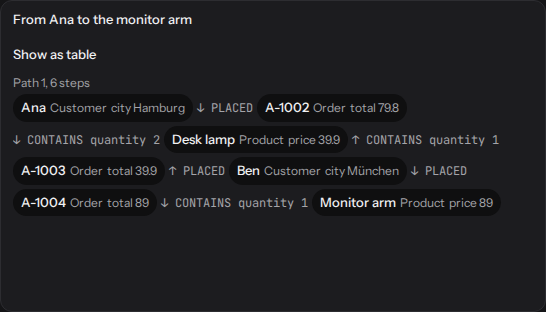
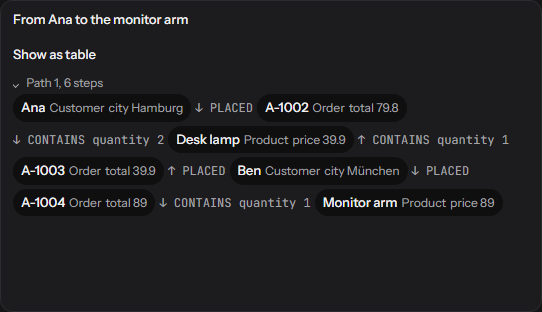
UI fixer cycle 2: toolbar seams, steps row, settings nav and rows, screenshots

diff --git a/ui/src/styles/layoutGuards.test.ts b/ui/src/styles/layoutGuards.test.ts
@@ -16,7 +16,12 @@ function rules(file: string): StyleRule[] {
 
 function value(file: string, selector: string, property: string, context?: RegExp): string[] {
   return rules(file)
-    .filter((rule) => rule.selector === selector)
+    .filter((rule) =>
+      rule.selector
+        .split(/,(?![^()]*\))/)
+        .map((part) => part.trim().replace(/\s+/g, " "))
+        .includes(selector),
+    )
     .filter((rule) => context === undefined || rule.context.some((c) => context.test(c)))
     .flatMap((rule) => rule.declarations)
     .filter((declaration) => declaration.property === property)
@@ -57,7 +62,7 @@ describe("layout guards", () => {
   });
 
   it("lets the step type give up width before its button wraps", () => {
-    expect(value("analysis/analysis.css", ".steps__add > .select", "flex")).toContain("0 1 auto");
+    expect(value("analysis/analysis.css", ".steps__add > .select", "flex")).toContain("1 1 10rem");
     expect(value("analysis/analysis.css", ".steps__add > .button", "flex")).toContain("none");
   });
 
@@ -98,6 +103,20 @@ describe("layout guards", () => {
     expect(
       value("features/plugins/plugins.css", ".plugins-table .plugins-mono", "white-space"),
     ).toContain("nowrap");
+  });
+
+  it("squares the toolbar group's inner corners, so no seam shows between its controls", () => {
+    const css = "features/dashboards/toolbar.css";
+    expect(
+      value(css, ".dash-toolbar :where(.time-controls, .split-control) .button", "border-radius"),
+    ).toContain("0");
+    expect(
+      value(
+        css,
+        ".dash-toolbar :where(.time-controls, .split-control) > :where(:first-child) .button",
+        "border-radius",
+      ),
+    ).toContain("var(--radius-md-inner) 0 0 var(--radius-md-inner)");
   });
 
   it("drops the catalog status separators where the line wraps", () => {

diff --git a/ui/src/features/settings/settings.css b/ui/src/features/settings/settings.css
@@ -197,29 +197,6 @@
     container: settings-main / inline-size;
   }
 
-  /*
-   * A narrow section (a small window, or the sidebar open beside it): every row puts its control
-   * under the text, a switch as well as a field, instead of keeping whatever happens to fit.
-   */
-  @container settings-main (width < 40rem) {
-    .settings-row__text {
-      flex-basis: 100%;
-    }
-
-    .settings-row__control {
-      justify-content: flex-start;
-    }
-
-    /* A field's hint and a value follow the control to the left edge. */
-    .settings-field {
-      justify-items: start;
-    }
-
-    .settings-value {
-      text-align: start;
-    }
-  }
-
   .settings-section {
     display: flex;
     flex-direction: column;
@@ -944,6 +921,29 @@
 
     .settings-preview {
       position: static;
+    }
+  }
+
+  /*
+   * A narrow section (a small window, or the sidebar open beside it): every row puts its control
+   * under the text, a switch as well as a field, instead of keeping whatever happens to fit.
+   */
+  @container settings-main (width < 40rem) {
+    .settings-row__text {
+      flex-basis: 100%;
+    }
+
+    .settings-row__control {
+      justify-content: flex-start;
+    }
+
+    /* A field's hint and a value follow the control to the left edge. */
+    .settings-field {
+      justify-items: start;
+    }
+
+    .settings-value {
+      text-align: start;
     }
   }
 

diff --git a/ui/src/features/dashboards/toolbar.css b/ui/src/features/dashboards/toolbar.css
@@ -147,10 +147,23 @@
     background: var(--border);
   }
 
-  .dash-toolbar .time-controls .button,
-  .dash-toolbar .split-control .button {
-    border-radius: var(--radius-sm);
+  /*
+   * Square where two controls meet, so no corner of the divider color shows at the seams (it read
+   * as notches in dark mode); the outer corners follow the group's frame.
+   */
+  .dash-toolbar :where(.time-controls, .split-control) .button {
+    border-radius: 0;
     background: var(--bg-surface);
+  }
+
+  .dash-toolbar :where(.time-controls, .split-control) > :where(:first-child) .button,
+  .dash-toolbar :where(.time-controls, .split-control) > .button:where(:first-child) {
+    border-radius: var(--radius-md-inner) 0 0 var(--radius-md-inner);
+  }
+
+  .dash-toolbar :where(.time-controls, .split-control) > :where(:last-child) .button,
+  .dash-toolbar :where(.time-controls, .split-control) > .button:where(:last-child) {
+    border-radius: 0 var(--radius-md-inner) var(--radius-md-inner) 0;
   }
 
   .dash-toolbar .time-controls .button:hover,

diff --git a/ui/src/features/settings/SettingsLayout.tsx b/ui/src/features/settings/SettingsLayout.tsx
@@ -50,15 +50,19 @@ export function SettingsLayout() {
   const listRef = useRef<HTMLUListElement>(null);
   const navRef = useRef<HTMLElement>(null);
 
+  const shown = visible.map((section) => section.id).join(" ");
+
   // A navigation taller than the window scrolls on its own; the current entry stays in view, also
-  // the footer entries (About, Export and import) far down the list.
+  // the footer entries (About, Export and import) far down the list. Again once the permissions
+  // have arrived, since they add the sections above it.
   useEffect(() => {
+    if (shown === "") return;
     const nav = navRef.current;
     const link = nav?.querySelector<HTMLElement>(`.settings-nav__list [data-section="${current}"]`);
     if (nav !== null && link !== null && link !== undefined) {
       revealInside(nav, link);
     }
-  }, [current]);
+  }, [current, shown]);
 
   function onListKey(event: KeyboardEvent<HTMLUListElement>) {
     if (event.key !== "ArrowDown" && event.key !== "ArrowUp") {

diff --git a/ui/src/analysis/analysis.css b/ui/src/analysis/analysis.css
@@ -137,12 +137,14 @@
   }
 
   /*
-   * The type and its button stay on one line while there is room: the select gives up width
-   * first (a long German step name was pushing the button onto a line of its own).
+   * The type and its button stay on one line while there is room: the select starts from a small
+   * width and grows up to a field's (a long German step name was pushing the button onto a line
+   * of its own, since a row breaks by the items' starting widths).
    */
   .steps__add > .select {
-    flex: 0 1 auto;
-    min-width: min(10rem, 100%);
+    flex: 1 1 10rem;
+    min-width: 0;
+    max-width: var(--size-field);
   }
 
   .steps__add > .button {

diff --git a/ui/src/styles/tokens.css b/ui/src/styles/tokens.css
@@ -119,6 +119,8 @@
      */
     --radius-sm: 4px;
     --radius-md: 7px;
+    /* The outer corners of a control inside a bordered group of medium radius. */
+    --radius-md-inner: calc(var(--radius-md) - var(--border-width));
     --radius-lg: 12px;
     --radius-pill: 999px;
 
